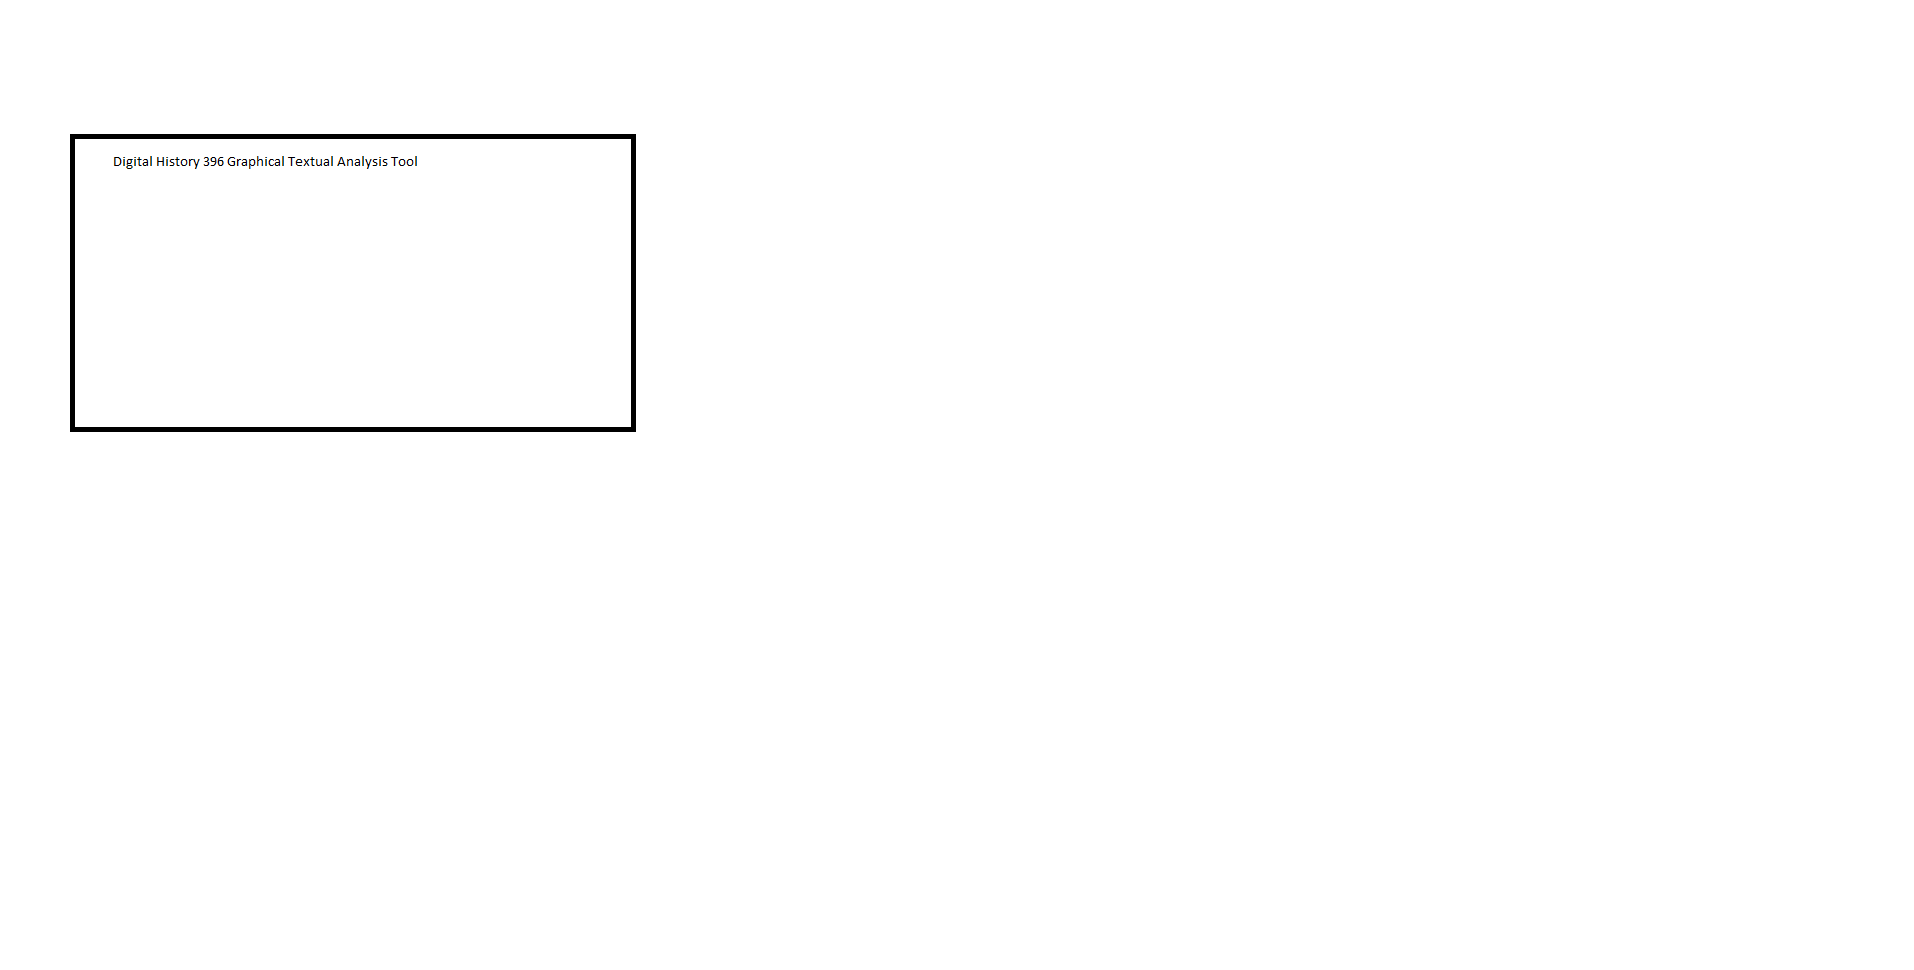
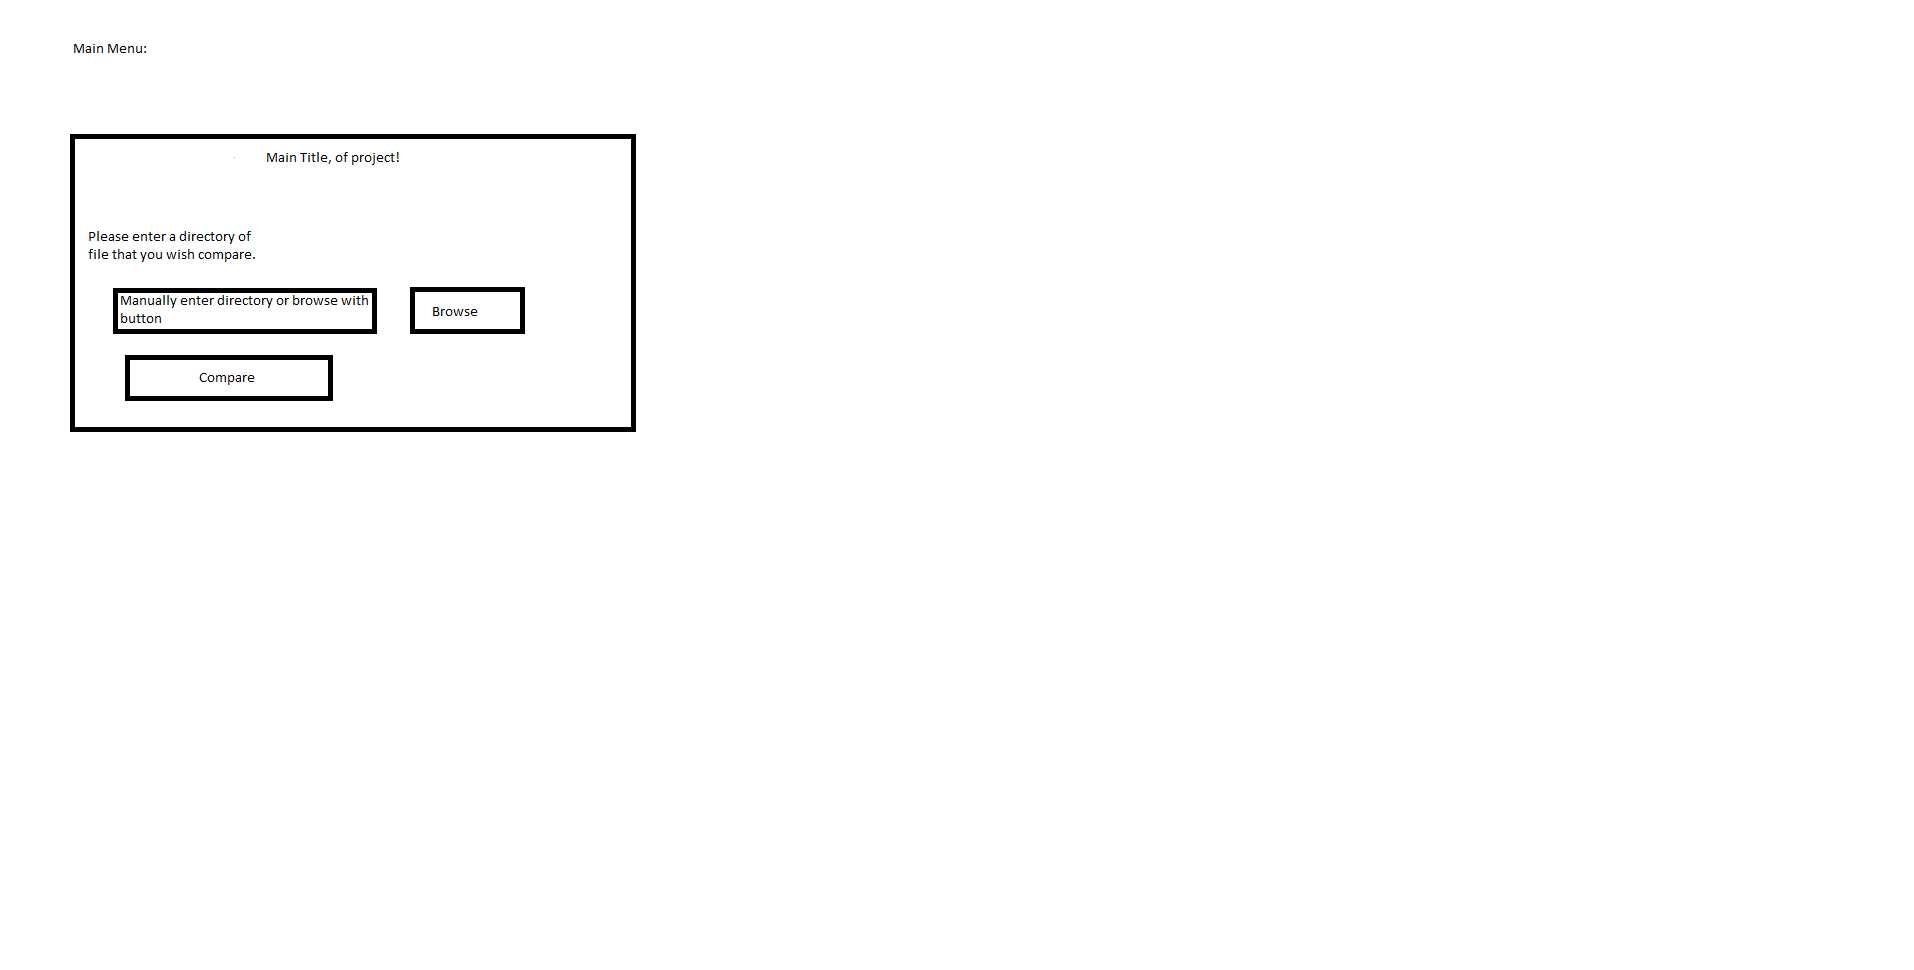
added design document fixes

Changed region(s): [[0.0617, 0.2165, 0.2774, 0.433], [0.0617, 0.1546, 0.2158, 0.1856], [0.0308, 0.0309, 0.0617, 0.0619]]

diff --git a/code/history396PythonProject/system.py b/code/history396PythonProject/system.py
@@ -6,6 +6,20 @@ from tkinter import *
 from tkinter import ttk
 
 
+
+
+
+"""
+buildMainMenu(): 
+
+param: None
+
+Builds the main menu needed for, the project. 
+When the system frist starts this is what is built and displayed to the user.
+Main menu will quickly build  the basic gui application needed for the textual anaylsis.
+
+return: Returns a reference to the Main Panel. 
+"""
 def buildMainMenu():
 
     mainPanel = Tk()
@@ -17,9 +31,10 @@ def buildMainMenu():
     Label(mainPanel,  text = "Digital History 396 Graphical Textual Analysis Tool", font = ("Times New Roman", 16)).grid(row = 0)
 
     Label(mainPanel, text = "please drag a file into the entry:", font = ("Times New Roman", 12)).grid(row=1)
-    Entry(mainPanel).grid(row=1, column = 1)
+    FilePath = Entry(mainPanel).grid(row=1, column = 1)
 
-
+    Button(mainPanel, text = "Quit", font = ("Times New Roman", 12), command = mainPanel.quit).grid(row = 2)
+   # FilePath.get()
 
 
   #  ttk.Button(mainPanel, text="test").grid()

diff --git a/code/history396PythonProject/model/textFileAnaylsis.py b/code/history396PythonProject/model/textFileAnaylsis.py
@@ -1,0 +1,4 @@
+# Matt Radke
+# mmr174
+
+
